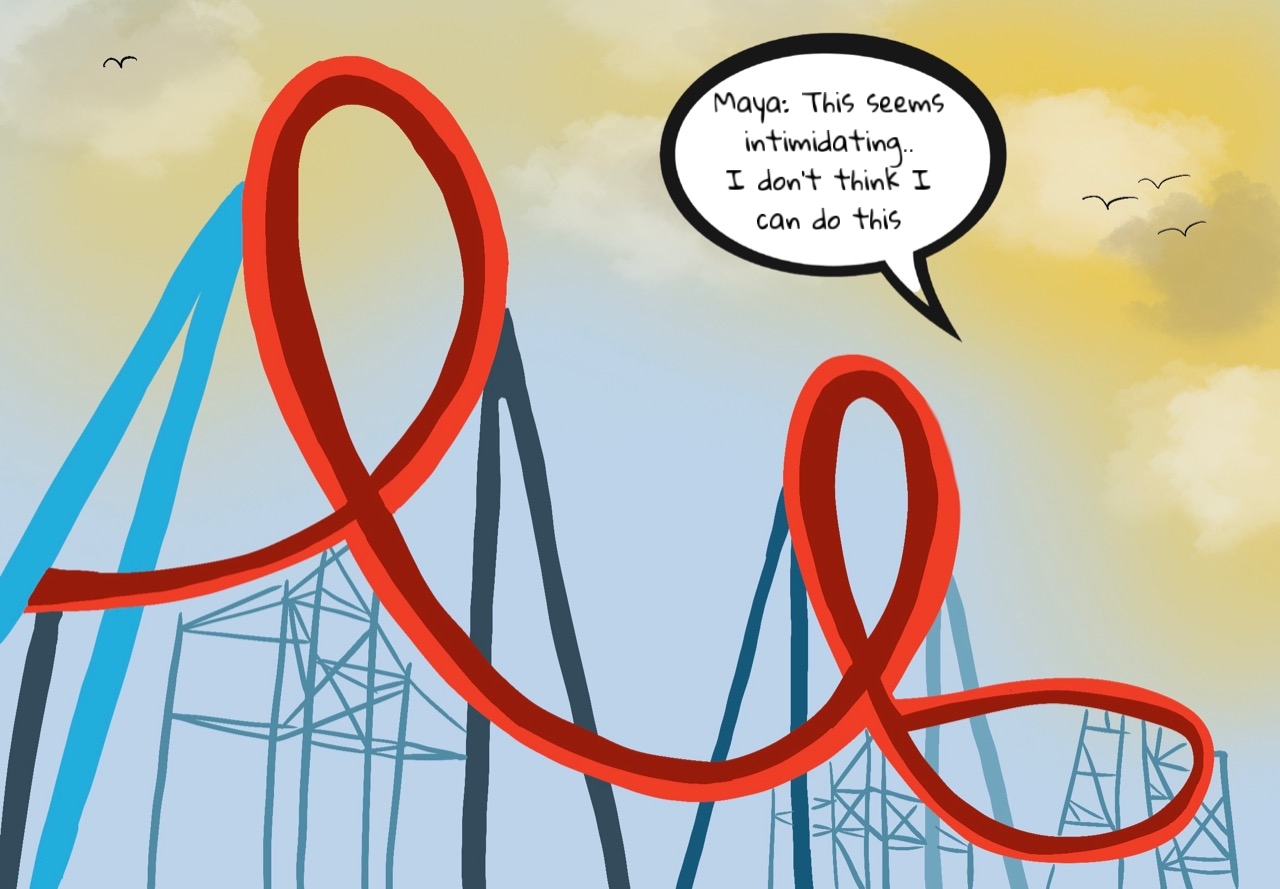
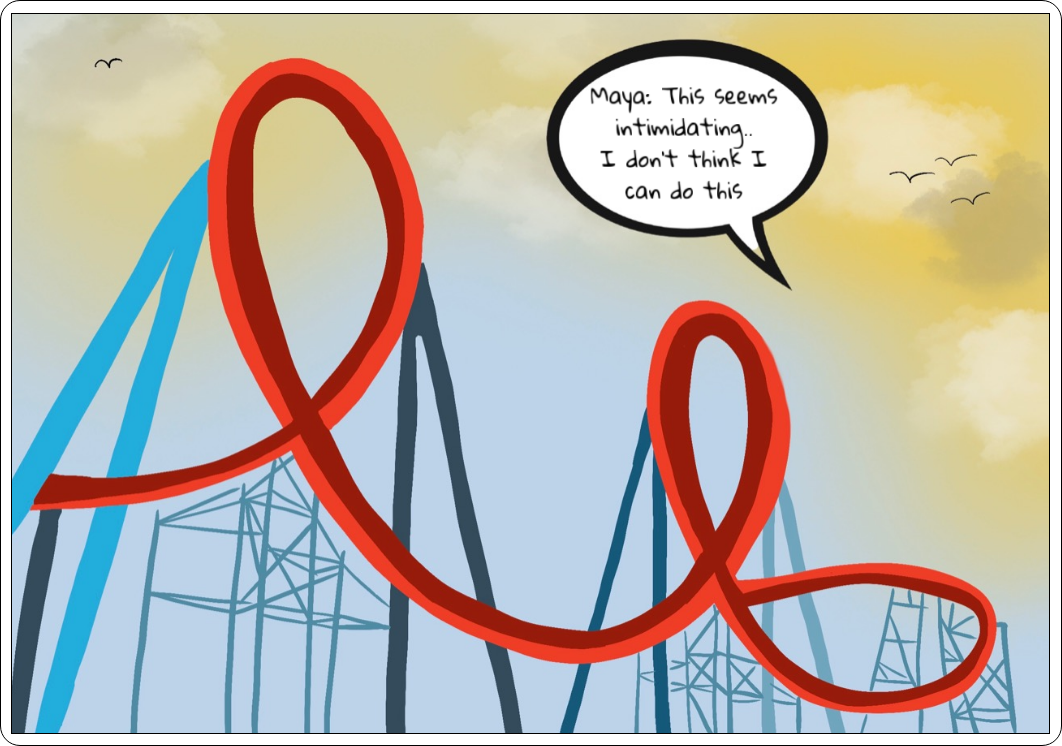
big change

diff --git a/page3a.html b/page3a.html
@@ -3,7 +3,7 @@
   <head>
      <link rel="stylesheet" href="style2.css">
      <script type="text/javascript" src="js/jquery-3.6.0.min.js"> </script>
-     <script type="text/javascript" src="js/app.js" defer> </script>
+     <script type="text/javascript" src="js/app2.js" defer> </script>
    <link href="https://unpkg.com/aos@2.3.1/dist/aos.css" rel="stylesheet">
    <script src="https://unpkg.com/aos@2.3.1/dist/aos.js"></script>
      <script type="text/javascript" src="script.js" defer>
@@ -14,22 +14,20 @@
   <body>
 <!-- panels drawn by yeva, code and interaction by bato -->
 
-<h2>page 3a: ferrari world </h2>
-
 <div class="ferrari1">
-  <img src="images/ferrari1.png" alt="Ferrari World Panel 1" style="width:1280px;height:889px;>
+  <img src="images/ferrarib1.png" alt="Ferrari World Panel 1" style="width:1062px;height:746px;>
 </div>
 
 <div class="ferrari2">
-  <img src="images/ferrari2.png" alt="Ferrari World Panel 2">
+  <img src="images/ferrarib2.png" alt="Ferrari World Panel 2" style="width:608px;height:746px;>
 </div>
 
 <div class="ferrari3">
-  <img src="images/ferrari3.png" alt="Ferrari World Panel 3">
+  <img src="images/ferrarib3.png" alt="Ferrari World Panel 3" style="width:1062px;height:746px;>
 </div>
 
 <div class="ferrari4">
-  <img src="images/ferrari4.png" alt="Ferrari World Panel 4">
+  <img src="images/ferrarib4.png" alt="Ferrari World Panel 4" style="width:1062px;height:746px;>
 </div>
 
 <div class="louvrelogo">

diff --git a/js/app2.js b/js/app2.js
@@ -1,0 +1,30 @@
+$(document).ready(function(){
+    $("img:first-child").click(function(){
+        // Change src attribute of image
+        $(this).attr("src", "images/ferrari1.png");
+    });
+});
+
+$(document).ready(function(){
+    $("img:nth-child(2)").click(function(){
+        // Change src attribute of image
+        $(this).attr("src", "images/ferrari2.png");
+    });
+});
+
+$(document).ready(function(){
+    $("img:nth-child(3)").click(function(){
+        // Change src attribute of image
+        $(this).attr("src", "images/ferrari3.png");
+    });
+});
+
+$(document).ready(function(){
+    $("img:nth-child(4)").click(function(){
+        // Change src attribute of image
+        $(this).attr("src", "images/ferrari4.png");
+    });
+});
+
+
+  AOS.init();

diff --git a/style2.css b/style2.css
@@ -1,3 +1,8 @@
+body {
+  margin: 25px;
+  align-content: center;
+  background-color: #CCDBFD
+}
 
 .link {
 text-decoration: none;
